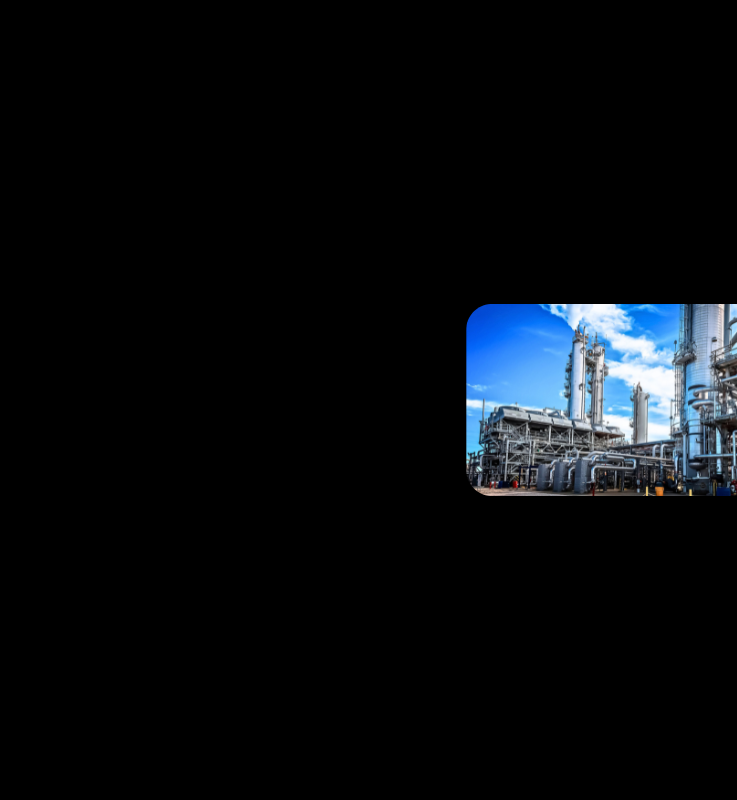
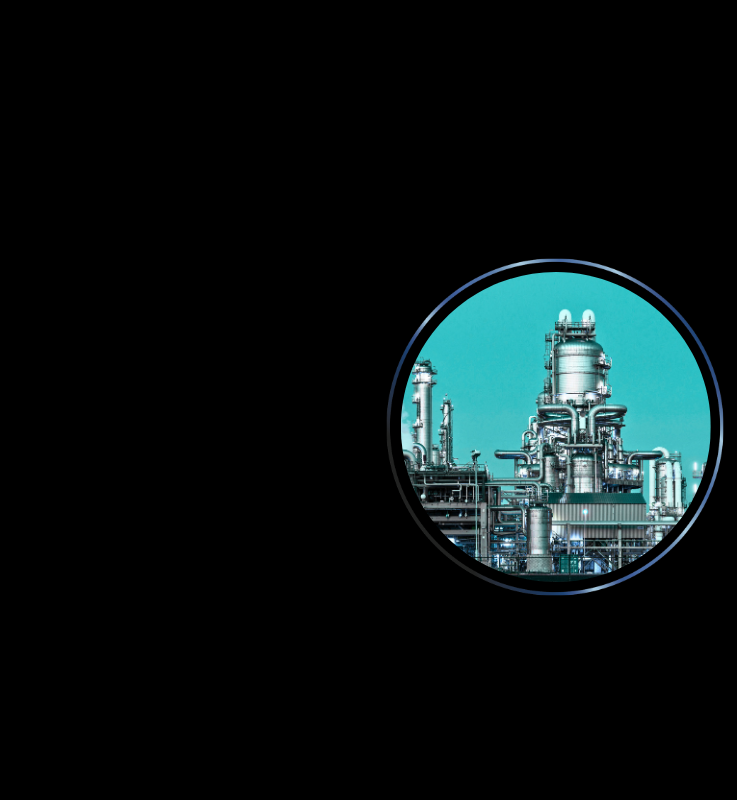
update images and mega menu time

Changed region(s): [[0.4993, 0.3125, 1.0, 0.75]]

diff --git a/src/components/Hero.jsx b/src/components/Hero.jsx
@@ -153,18 +153,18 @@ export default function Hero() {
               }`} />
 
               {/* Content Box (Keeps expanding titles: AUTOMOTIVE, PHARMA, etc.) */}
-              <div className="absolute inset-0 flex flex-col justify-end p-6 md:p-8 pb-16 md:pb-20 z-10">
-                <div className="space-y-2.5 max-w-xl md:max-w-2xl">
+              <div className="absolute inset-0 flex flex-col justify-end items-center p-6 md:p-8 pb-16 md:pb-20 z-10 text-center">
+                <div className="space-y-2.5 w-full flex flex-col items-center justify-center">
 
                    {/* Letter Header: Displays single letter when normal (D, T, T, W), expands to full word on hover */}
-                    <div className="flex flex-col leading-none">
-                      <div className="flex items-baseline leading-none">
-                        <span className={`font-black select-none tracking-tight transition-all duration-500 text-white ${
+                    <div className="flex flex-col items-center justify-center leading-normal pb-2">
+                      <div className="flex items-baseline justify-center leading-normal">
+                        <span className={`font-black select-none tracking-wide transition-all duration-500 text-white ${
                           isHovered ? 'text-5xl md:text-6xl lg:text-7xl' : 'text-3xl md:text-4xl lg:text-[42px]'
                         }`}>
                           {panel.letter}
                         </span>
-                        <span className={`font-black tracking-tight transition-all duration-500 origin-left overflow-hidden max-w-2xl opacity-100 text-white ${
+                        <span className={`font-black tracking-wide transition-all duration-500 origin-left overflow-hidden max-w-2xl opacity-100 text-white pb-3 ${
                           isHovered ? 'text-4xl md:text-5xl lg:text-6xl' : 'text-2xl md:text-3xl lg:text-[32px]'
                         }`}>
                           {panel.wordSuffix}
@@ -188,27 +188,44 @@ export default function Hero() {
             const el = document.getElementById('dream-details');
             if (el) el.scrollIntoView({ behavior: 'smooth' });
           }}
-          className="w-full bg-ossisto-blue border border-ossisto-blue px-5 py-2.5 rounded-full flex items-center justify-center shadow-2xl hover:bg-[#236CB1] transition-all duration-200 cursor-pointer text-center"
+          className="w-full bg-[#0019EB] border border-[#0019EB] px-5 py-2.5 rounded-full flex items-center justify-center shadow-2xl hover:bg-[#0014bd] transition-all duration-200 cursor-pointer text-center"
         >
           <span className="text-white text-[11px] font-bold tracking-wide">
-            Open positions – Apply
+            Apply to Open positions
           </span>
         </button>
       </div>
 
-      {/* Bullet Indicators aligned to panels (Absolute to Hero, scrolls away) */}
-      <div className="absolute bottom-8 left-1/2 -translate-x-1/2 z-20 flex justify-center items-center space-x-2 hidden md:flex">
-        {panels.map((_, idx) => (
-          <button
-            key={idx}
-            onClick={() => setHoveredIdx(idx)}
-            className={`h-2 rounded-full transition-all duration-300 border ${hoveredIdx === idx
-              ? 'w-6 bg-white border-white'
-              : 'w-2 bg-transparent border-gray-600 hover:border-white'
-              }`}
-            aria-label={`Go to panel ${idx + 1}`}
-          />
-        ))}
+      {/* Bullet Indicators aligned to panels with downward pointed scroll arrow */}
+      <div className="absolute bottom-6 left-1/2 -translate-x-1/2 z-20 flex flex-col justify-center items-center space-y-2.5 hidden md:flex">
+        {/* Pagination Dots */}
+        <div className="flex justify-center items-center space-x-2">
+          {panels.map((_, idx) => (
+            <button
+              key={idx}
+              onClick={() => setHoveredIdx(idx)}
+              className={`h-2 rounded-full transition-all duration-300 border ${hoveredIdx === idx
+                ? 'w-6 bg-white border-white'
+                : 'w-2 bg-transparent border-gray-600 hover:border-white'
+                }`}
+              aria-label={`Go to panel ${idx + 1}`}
+            />
+          ))}
+        </div>
+
+        {/* Scroll Down Arrow */}
+        <button
+          onClick={() => {
+            const el = document.getElementById('dream-details');
+            if (el) el.scrollIntoView({ behavior: 'smooth' });
+          }}
+          className="animate-bounce transition-colors duration-200 cursor-pointer text-[#D9D9D9] hover:text-white"
+          aria-label="Scroll down"
+        >
+          <svg className="w-5 h-5 stroke-[2.5px]" fill="none" viewBox="0 0 24 24" stroke="currentColor">
+            <path strokeLinecap="round" strokeLinejoin="round" d="M19.5 8.25l-7.5 7.5-7.5-7.5" />
+          </svg>
+        </button>
       </div>
 
     </div>

diff --git a/src/components/Navbar.jsx b/src/components/Navbar.jsx
@@ -1,10 +1,11 @@
-import React, { useState, useEffect } from 'react';
+import React, { useState, useEffect, useRef } from 'react';
 import { X, Search, Linkedin, Instagram, Facebook, Twitter, Youtube, ArrowRight } from 'lucide-react';
 
 export default function Navbar({ onContactClick, onNavigate, currentView }) {
   const isScrolled = true;
   const [activeDropdown, setActiveDropdown] = useState(null);
-  const [timeoutId, setTimeoutId] = useState(null);
+  const timeoutRef = useRef(null);
+  const enterTimeoutRef = useRef(null);
   const [isSearchExpanded, setIsSearchExpanded] = useState(false);
   const [searchQuery, setSearchQuery] = useState('');
   const [isSidePanelOpen, setIsSidePanelOpen] = useState(false);
@@ -12,25 +13,35 @@ export default function Navbar({ onContactClick, onNavigate, currentView }) {
   const [activeTab, setActiveTab] = useState('DIGITAL');
 
   const handleMouseEnter = (index) => {
-    if (timeoutId) {
-      clearTimeout(timeoutId);
-      setTimeoutId(null);
+    if (timeoutRef.current) {
+      clearTimeout(timeoutRef.current);
+      timeoutRef.current = null;
     }
-    setActiveDropdown(index);
+    if (enterTimeoutRef.current) {
+      clearTimeout(enterTimeoutRef.current);
+      enterTimeoutRef.current = null;
+    }
+    enterTimeoutRef.current = setTimeout(() => {
+      setActiveDropdown(index);
+    }, 500); // 500ms hover open delay
   };
 
   const handleMouseLeave = () => {
-    const id = setTimeout(() => {
+    if (enterTimeoutRef.current) {
+      clearTimeout(enterTimeoutRef.current);
+      enterTimeoutRef.current = null;
+    }
+    timeoutRef.current = setTimeout(() => {
       setActiveDropdown(null);
     }, 150); // 150ms delay to bridge the transition gap
-    setTimeoutId(id);
   };
 
   useEffect(() => {
     return () => {
-      if (timeoutId) clearTimeout(timeoutId);
+      if (timeoutRef.current) clearTimeout(timeoutRef.current);
+      if (enterTimeoutRef.current) clearTimeout(enterTimeoutRef.current);
     };
-  }, [timeoutId]);
+  }, []);
 
   const menuItems = [
     {
@@ -254,17 +265,17 @@ Applied AI scoped by measurable payback and validated against the method you use
                 {/* Mega Dropdown Drawer */}
                 {activeDropdown === index && (
                   <div
-                    className="absolute left-0 right-0 top-full w-screen bg-white border-b border-slate-200 shadow-2xl animate-slide-down-menu z-50 overflow-hidden"
+                    className="absolute left-0 right-0 top-full w-screen bg-white shadow-2xl animate-slide-down-menu z-50 overflow-hidden"
                     onMouseEnter={() => handleMouseEnter(index)}
                     onMouseLeave={handleMouseLeave}
                   >
                     <div className="w-full px-4 sm:px-6 lg:px-8 grid grid-cols-12">
 
                        {/* Column 2: Digital Engineering Narrative (now Column 1) */}
-                      <div className={`col-span-7 p-8 flex flex-col justify-center relative z-10 text-left transition-colors duration-300 ${
+                      <div className={`col-span-7 p-8 flex flex-col justify-center relative z-10 text-left transition-colors duration-300 border-b ${
                         item.title === "AI & DATA" 
-                          ? "bg-[#236CB1] text-white lg:py-12 lg:pl-36 lg:pr-12 [box-shadow:-100vw_0_0_100vw_#236CB1]" 
-                          : "bg-white text-black lg:p-12"
+                          ? "bg-[#236CB1] text-white lg:py-12 lg:pl-36 lg:pr-12 [box-shadow:-100vw_0_0_100vw_#236CB1] border-[#236CB1]" 
+                          : "bg-white text-black lg:p-12 border-slate-200"
                       }`}>
                         <h2 className={`text-2xl lg:text-3xl font-black tracking-tight mb-4 ${
                           item.title === "AI & DATA" ? "text-white" : "text-black"
@@ -287,7 +298,7 @@ Applied AI scoped by measurable payback and validated against the method you use
                       </div>
 
                       {/* Column 3: Sub-links Services List (now Column 2) */}
-                      <div className="col-span-5 bg-white p-8 lg:py-12 lg:pl-32 lg:pr-12 border-l border-gray-100 flex flex-col justify-center relative z-10 text-left">
+                      <div className="col-span-5 bg-white p-8 lg:py-12 lg:pl-32 lg:pr-12 border-l border-b border-gray-100 flex flex-col justify-center relative z-10 text-left">
                         <ul className="space-y-4">
                           {item.links.map((link, idx) => (
                             <li key={idx}>

diff --git a/src/components/DreamDetails.jsx b/src/components/DreamDetails.jsx
@@ -146,7 +146,7 @@ export default function DreamDetails() {
 
             if (isEngineer) {
               return (
-                <div key={idx} className="relative grid grid-cols-1 lg:grid-cols-12 gap-8 items-start">
+                <div key={idx} className="relative grid grid-cols-1 lg:grid-cols-12 gap-8 items-start !mt-[18rem] !mb-[18rem]">
                   
                   {/* Top Row: Left Heading & Right Video */}
                   <div className="lg:col-span-4 space-y-4 pr-4">
@@ -158,7 +158,7 @@ export default function DreamDetails() {
                     </h3>
                   </div>
 
-                  <div className="lg:col-span-8">
+                  <div className="lg:col-span-8 flex justify-end">
                     <div className="relative w-full md:w-3/4 aspect-video rounded-2xl overflow-hidden shadow-md bg-slate-950">
                       <video 
                         src="/Services in detail video.mp4"
